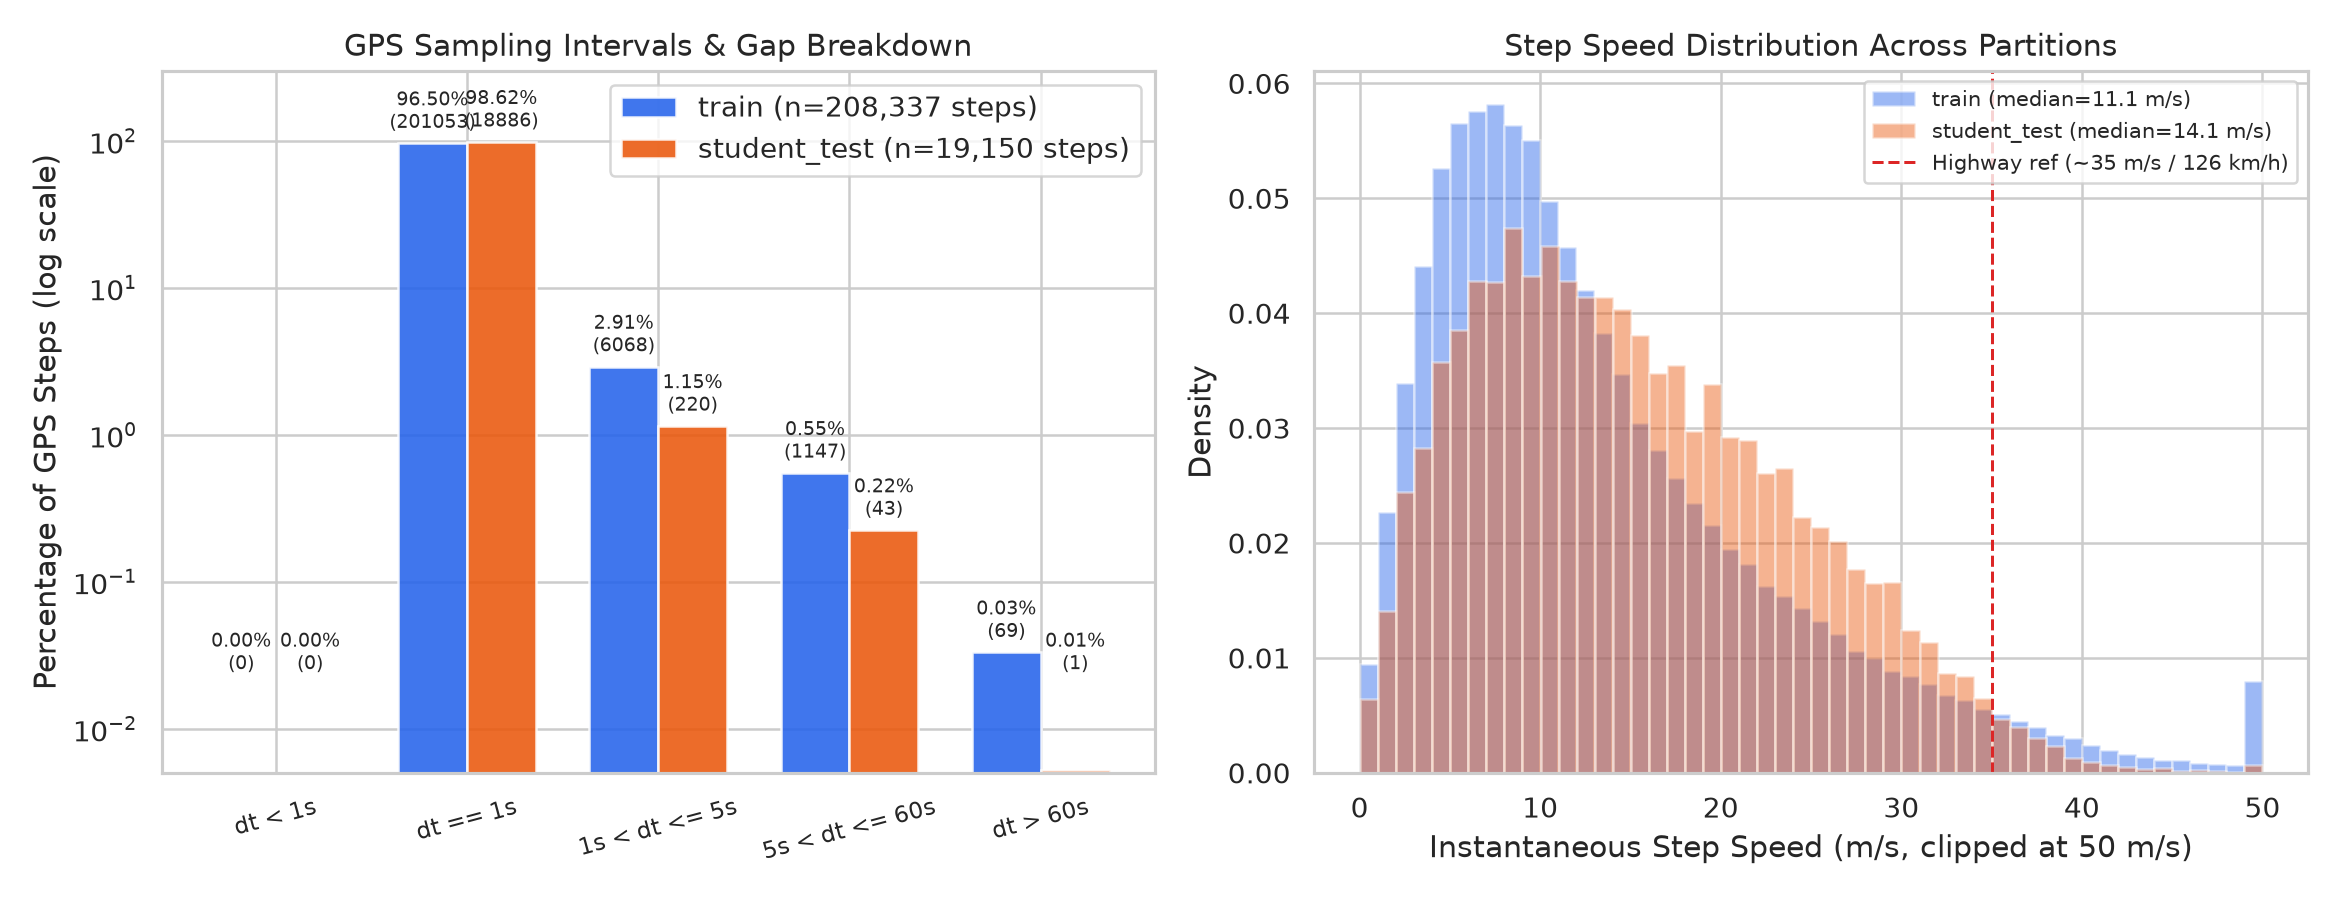
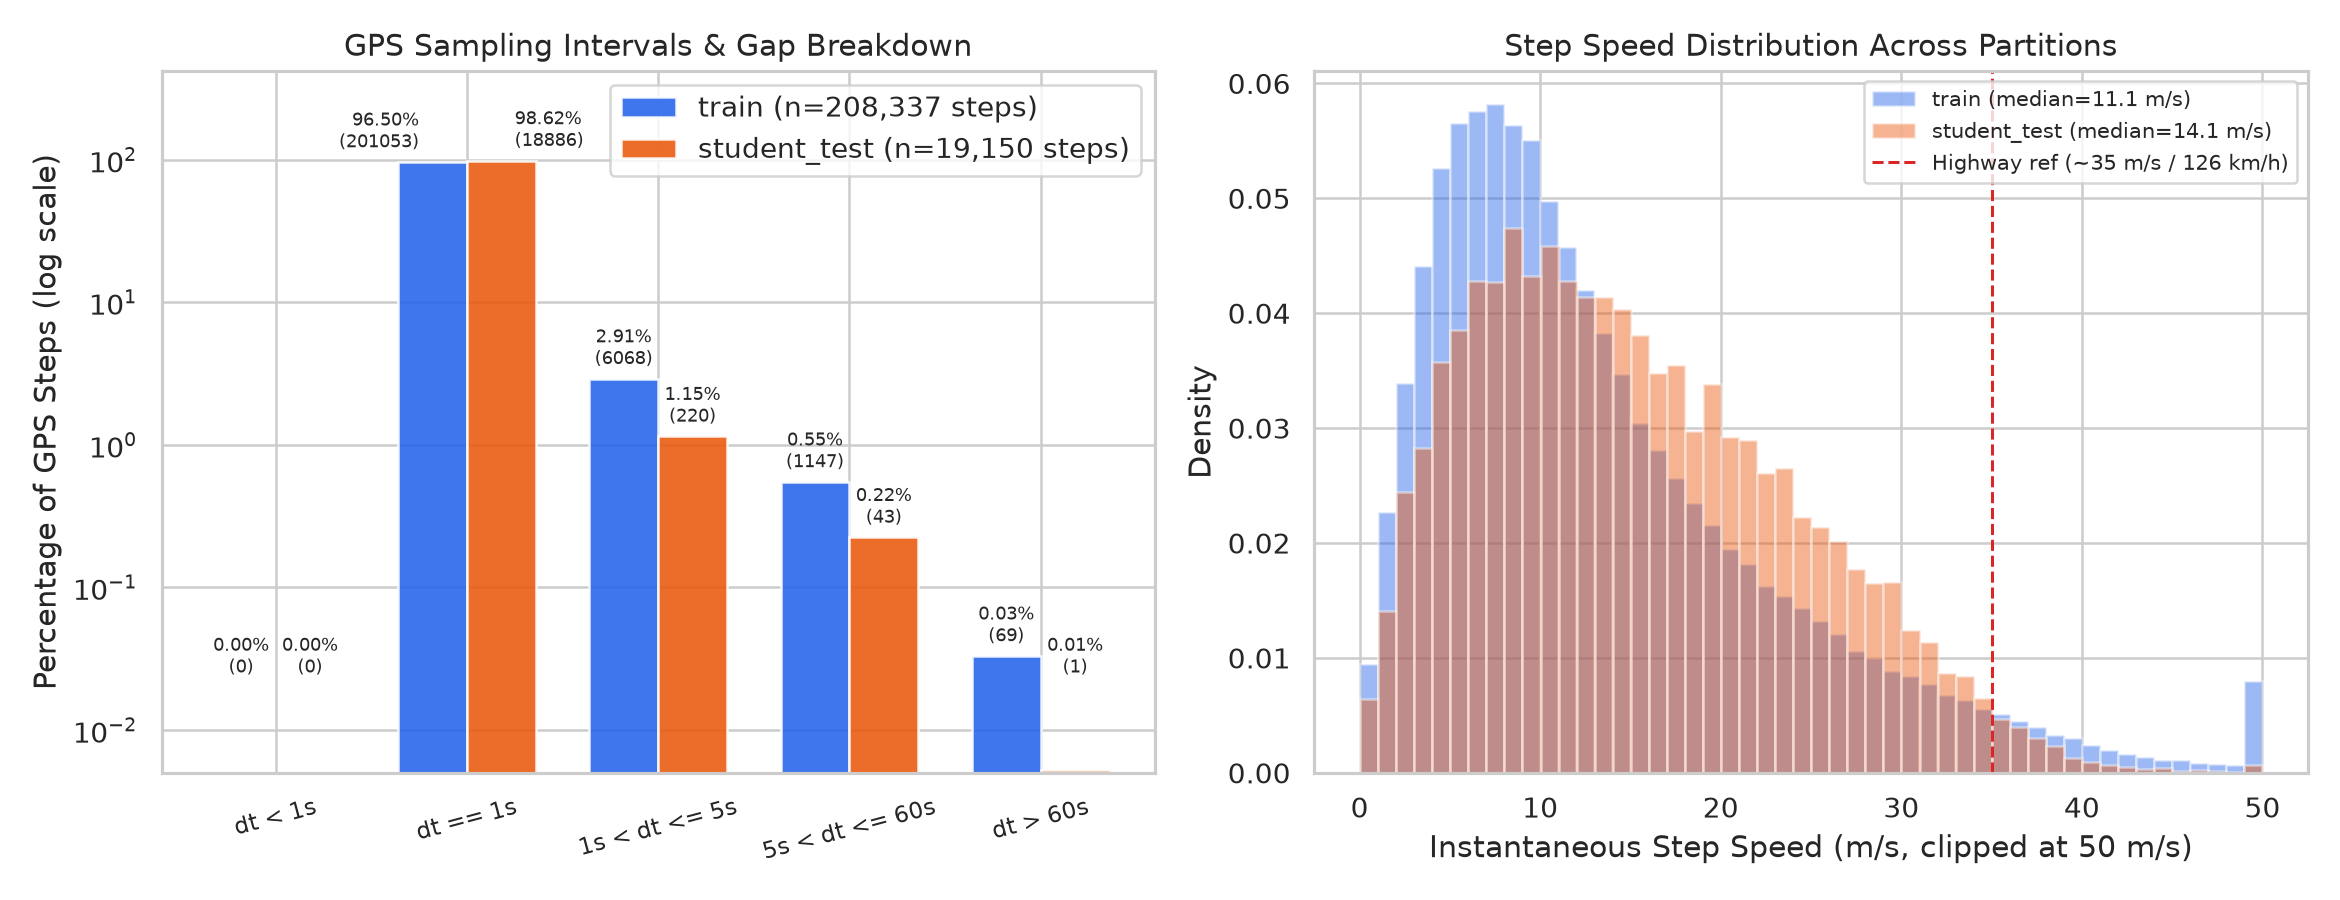
style(eda): eliminate label overlap in fig1 and fig3 and align pre-modeling step count

diff --git a/src/eda/trajectory_analysis.py b/src/eda/trajectory_analysis.py
@@ -193,18 +193,24 @@ def plot_sampling_and_speeds(dt_arrays: dict[str, np.ndarray], speed_arrays: dic
             color=colors[part],
             alpha=0.88,
         )
-        for bar, pct, cnt in zip(bars, pcts, counts):
+        for b_i, (bar, pct, cnt) in enumerate(zip(bars, pcts, counts)):
+            bx = bar.get_x() + bar.get_width() / 2
+            by = max(bar.get_height(), 0.02) * 1.15
+            ha = "center"
+            if b_i == 1:
+                bx = bx - 0.07 if idx == 0 else bx + 0.07
+                ha = "right" if idx == 0 else "left"
             axes[0].text(
-                bar.get_x() + bar.get_width() / 2,
-                max(bar.get_height(), 0.02) * 1.15,
+                bx,
+                by,
                 f"{pct:.2f}%\n({cnt})",
-                ha="center",
+                ha=ha,
                 va="bottom",
-                fontsize=7.5,
+                fontsize=7.0,
             )
 
     axes[0].set_yscale("log")
-    axes[0].set_ylim(0.005, 300)
+    axes[0].set_ylim(0.005, 420)
     axes[0].set_xticks(x_pos)
     axes[0].set_xticklabels(buckets, rotation=15, fontsize=9)
     axes[0].set_ylabel("Percentage of GPS Steps (log scale)")
@@ -286,27 +292,60 @@ def plot_global_trip_locations(dyn_df: pd.DataFrame) -> None:
             zorder=3,
         )
 
-    # Annotate distinct geographic clusters with UTM EPSG codes
+    # Annotate distinct geographic clusters with UTM EPSG codes without overlap
     cluster_labels = []
     for epsg, grp in dyn_df.groupby("utm_epsg"):
-        cluster_labels.append((grp["mean_lon"].mean(), grp["mean_lat"].mean(), f"EPSG:{epsg}\n(n={len(grp)})"))
-    for cx, cy, txt in cluster_labels:
-        ax.annotate(
-            txt,
-            (cx, cy),
-            textcoords="offset points",
-            xytext=(6, 6),
-            fontsize=7.5,
-            color="#334155",
-            bbox=dict(boxstyle="round,pad=0.2", fc="white", ec="#cbd5e1", alpha=0.8),
-        )
+        cluster_labels.append((float(grp["mean_lon"].mean()), float(grp["mean_lat"].mean()), f"EPSG:{epsg}\n(n={len(grp)})"))
+    cluster_labels.sort(key=lambda item: item[0])
 
-    ax.set_xlim(-120, 155)
-    ax.set_ylim(-45, 70)
+    eur_idx = 0
+    for cx, cy, txt in cluster_labels:
+        if -15.0 <= cx <= 85.0 and cy >= 33.0:
+            # Split dense European/Ural band cleanly above and below on alternating indices
+            above = eur_idx % 2 == 0
+            tier = (eur_idx // 2) % 2
+            x_target = -22.0 + eur_idx * 7.8
+            y_target = (69.5 if tier == 0 else 61.8) if above else (26.5 if tier == 0 else 15.0)
+            eur_idx += 1
+            ax.annotate(
+                txt,
+                (cx, cy),
+                xytext=(x_target, y_target),
+                textcoords="data",
+                ha="center",
+                va="center",
+                fontsize=6.6,
+                color="#334155",
+                arrowprops=dict(arrowstyle="-", color="#94a3b8", lw=0.65),
+                bbox=dict(boxstyle="round,pad=0.18", fc="white", ec="#cbd5e1", alpha=0.92),
+            )
+        else:
+            dx, dy = 8, 7
+            if -102.0 <= cx <= -97.0:
+                dx, dy = -38, -22
+            elif -96.0 <= cx <= -90.0:
+                dx, dy = -10, 12
+            elif -89.0 <= cx <= -83.0:
+                dx, dy = 8, 12
+            elif -70.0 <= cx <= -50.0 and cy < -20.0:
+                dx, dy = -12, -18 if cy < -30.0 else 12
+            ax.annotate(
+                txt,
+                (cx, cy),
+                textcoords="offset points",
+                xytext=(dx, dy),
+                fontsize=7.2,
+                color="#334155",
+                arrowprops=dict(arrowstyle="-", color="#94a3b8", lw=0.6),
+                bbox=dict(boxstyle="round,pad=0.2", fc="white", ec="#cbd5e1", alpha=0.9),
+            )
+
+    ax.set_xlim(-122, 160)
+    ax.set_ylim(-50, 77)
     ax.set_xlabel("Centroid Longitude (degrees)")
     ax.set_ylabel("Centroid Latitude (degrees)")
     ax.set_title("Global Trip Centroids & Dynamic UTM Zone Mapping (90 Trips)")
-    ax.legend(loc="lower left")
+    ax.legend(loc="lower right", fontsize=8.5)
 
     plt.tight_layout()
     fig.savefig(FIGURES_DIR / "fig3_global_trip_locations.png", dpi=180)

diff --git a/reports/features/Feature_Engineering_Report.md b/reports/features/Feature_Engineering_Report.md
@@ -7,7 +7,7 @@
 
 ## 1. Candidate Generation and Route Alignment
 
-In raw form, each trip holds up to 307,392 road arcs, while `.route` lists traversed `arc_id` values rather than per-observation labels. To convert map-matching into supervised classification plus sequential decoding, we run two pre-modeling steps:
+In raw form, each trip holds up to 307,392 road arcs, while `.route` lists traversed `arc_id` values rather than per-observation labels. To convert map-matching into supervised classification plus sequential decoding, we run three pre-modeling steps:
 
 1. **Turnaround-aware velocity smoothing (`compute_smoothed_velocities`):** Real urban GPS tracks frequently pause at intersections and turnaround stops where raw 5-point finite differences invert direction under 5 m GPS cloud jitter. We smooth planar UTM coordinates with a Gaussian filter (`sigma = 2.5`), extract backward and forward spatial chords at `R = 20 m`, and split opposing chords (`dot(ub, uf) < -0.2`) so arrival pings retain arrival heading and departure pings retain departure heading. Instantaneous derivatives (`sigma = 1.2`) supply local directional variation.
 2. **Monotonic DP alignment (`align_route_to_observations`):** On labeled `train` and `student_test` trips, dynamic programming aligns each GPS observation `t` monotonically onto `.route` indices `j_t in [j_{t-1}, j_{t-1} + 15]` using point-to-arc distance plus heading alignment (`1.5 * (1 - cos_heading)`), with a `+50.0` prefix-minimum fallback for multi-minute GPS gaps.
